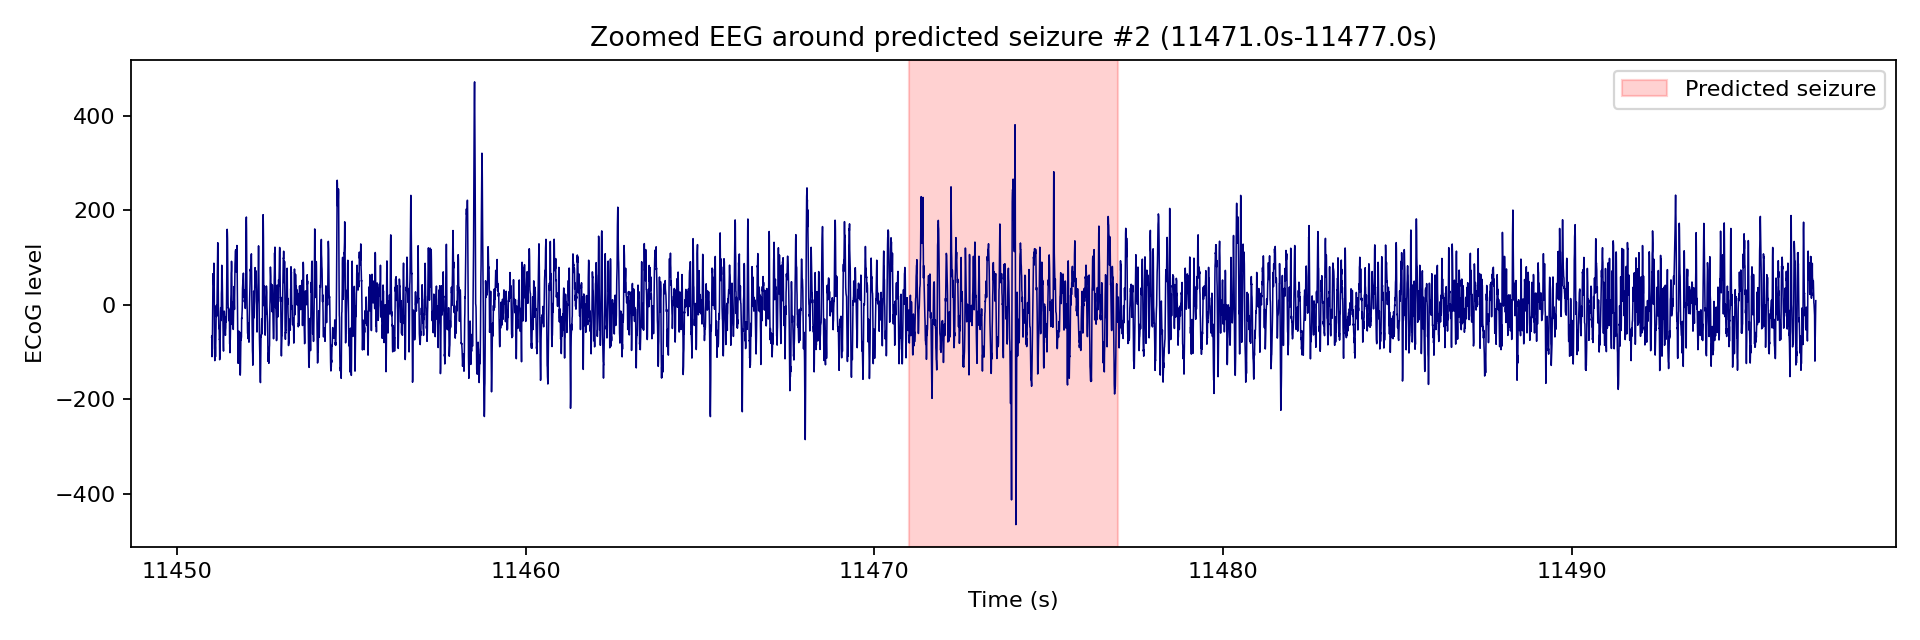
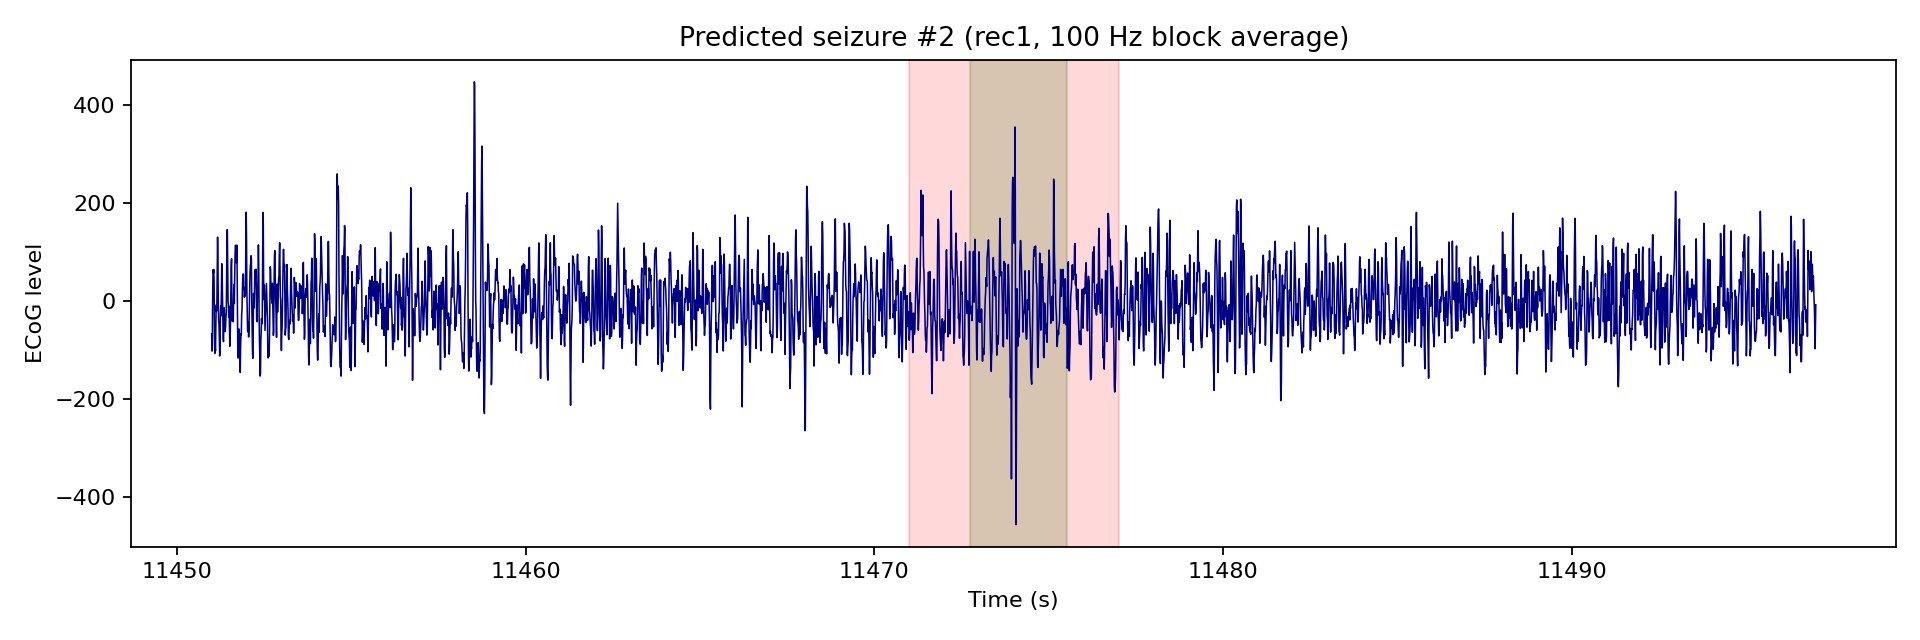
Rebuild website from updated postprocessed seizure dataset.
Regenerate events, 100 Hz traces, and zoom snapshots from current predictions so the live viewer reflects the latest model outputs.

diff --git a/src/export_pages_data.py b/src/export_pages_data.py
@@ -7,14 +7,18 @@ import json
 import shutil
 from pathlib import Path
 
+import matplotlib
+
+matplotlib.use("Agg")
+import matplotlib.pyplot as plt
 import numpy as np
 
 from .seizure_viewer_data import (
     DISPLAY_HZ,
-    FEATURED_SEGMENTS,
     PROJECT_ROOT,
     RECORDINGS,
     block_average_downsample,
+    get_featured_segments,
     get_predicted_spans,
     get_recording,
     get_true_spans,
@@ -41,11 +45,60 @@ def export_trace_binary(rec_id: str, target_hz: float = DISPLAY_HZ) -> tuple[dic
 
 
 def export_events_json(rec_id: str) -> dict:
+    featured = get_featured_segments(rec_id)
     return {
         "true_spans": get_true_spans(rec_id),
         "pred_spans": get_predicted_spans(rec_id),
-        "featured": FEATURED_SEGMENTS.get(rec_id, []),
+        "featured": featured,
     }
+
+
+def export_zoom_pngs(rec_id: str, static_dir: Path, limit: int = 5) -> None:
+    """Render zoom snapshot PNGs from updated postprocessed predictions."""
+    rec = get_recording(rec_id)
+    featured = get_featured_segments(rec_id, limit=limit)
+    true_spans = get_true_spans(rec_id)
+    pred_spans = get_predicted_spans(rec_id)
+
+    for seg in featured:
+        t0 = float(seg["start_s"])
+        t1 = float(seg["end_s"])
+        s0 = int(max(0, t0 * rec.fs_hz))
+        s1 = int(min(len(rec.ecog), t1 * rec.fs_hz))
+        raw = rec.ecog[s0:s1]
+        if raw.size == 0:
+            continue
+        ecog, hz, _ = block_average_downsample(raw, rec.fs_hz, DISPLAY_HZ)
+        t = (s0 / rec.fs_hz) + (np.arange(ecog.shape[0]) / hz)
+
+        plt.figure(figsize=(12, 4))
+        plt.plot(t, ecog, color="navy", linewidth=0.7)
+        for sp in true_spans:
+            if sp["end_s"] < t0 or sp["start_s"] > t1:
+                continue
+            plt.axvspan(
+                max(t0, sp["start_s"]),
+                min(t1, sp["end_s"]),
+                color="green",
+                alpha=0.18,
+            )
+        for sp in pred_spans:
+            if sp["end_s"] < t0 or sp["start_s"] > t1:
+                continue
+            plt.axvspan(
+                max(t0, sp["start_s"]),
+                min(t1, sp["end_s"]),
+                color="red",
+                alpha=0.15,
+            )
+        plt.xlabel("Time (s)")
+        plt.ylabel("ECoG level")
+        plt.title(f"{seg['label']} ({rec_id}, 100 Hz block average)")
+        plt.tight_layout()
+        out = static_dir / f"zoom_{seg['id']}.png"
+        plt.savefig(out, dpi=160)
+        plt.close()
+        print(f"  wrote {out.name}")
 
 
 def write_static_app_js(dest: Path) -> None:
@@ -306,10 +359,14 @@ def export_site(out_dir: Path, pages_base: str = "/Mice/") -> None:
             old_json.unlink()
 
     shutil.copy2(WEB_DIR / "styles.css", out_dir / "styles.css")
+    # Zoom PNGs from updated postprocessed dataset (rec1 featured gallery).
+    export_zoom_pngs("rec1", static_dir, limit=5)
     for i in range(1, 6):
-        src = WEB_DIR / "static" / f"zoom_{i}.png"
+        src = static_dir / f"zoom_{i}.png"
+        dst_web = WEB_DIR / "static" / f"zoom_{i}.png"
         if src.exists():
-            shutil.copy2(src, static_dir / f"zoom_{i}.png")
+            dst_web.parent.mkdir(parents=True, exist_ok=True)
+            shutil.copy2(src, dst_web)
 
     if not (out_dir / "index.html").exists():
         index = (WEB_DIR / "index.html").read_text(encoding="utf-8")

diff --git a/src/seizure_viewer_data.py b/src/seizure_viewer_data.py
@@ -44,15 +44,9 @@ RECORDINGS: dict[str, dict[str, str]] = {
     },
 }
 
-# Featured predicted-seizure zoom segments (seconds) from earlier analysis.
+# Legacy fallback if postprocessed predictions are missing.
 FEATURED_SEGMENTS: dict[str, list[dict[str, float | str]]] = {
-    "rec1": [
-        {"id": 1, "start_s": 11025.0, "end_s": 11071.0, "label": "Predicted seizure #1"},
-        {"id": 2, "start_s": 11451.0, "end_s": 11497.0, "label": "Predicted seizure #2"},
-        {"id": 3, "start_s": 11781.0, "end_s": 11827.0, "label": "Predicted seizure #3"},
-        {"id": 4, "start_s": 11823.0, "end_s": 11871.0, "label": "Predicted seizure #4"},
-        {"id": 5, "start_s": 12211.0, "end_s": 12256.0, "label": "Predicted seizure #5"},
-    ],
+    "rec1": [],
 }
 
 
@@ -166,6 +160,26 @@ def spans_in_window(spans: list[dict[str, float]], t0: float, t1: float) -> list
             }
         )
     return out
+
+
+def get_featured_segments(
+    rec_id: str, limit: int = 5, pad_s: float = 20.0
+) -> list[dict[str, float | str | int]]:
+    """Build featured zoom windows from current postprocessed predicted spans."""
+    spans = get_predicted_spans(rec_id)
+    featured: list[dict[str, float | str | int]] = []
+    for i, sp in enumerate(spans[:limit], start=1):
+        s = float(sp["start_s"]) - pad_s
+        e = float(sp["end_s"]) + pad_s
+        featured.append(
+            {
+                "id": i,
+                "start_s": max(0.0, s),
+                "end_s": e,
+                "label": f"Predicted seizure #{i}",
+            }
+        )
+    return featured
 
 
 def recording_meta(rec_id: str) -> dict[str, Any]:

diff --git a/src/seizure_viewer_server.py b/src/seizure_viewer_server.py
@@ -9,10 +9,10 @@ from pathlib import Path
 from flask import Flask, jsonify, request, send_from_directory
 
 from .seizure_viewer_data import (
-    FEATURED_SEGMENTS,
     PROJECT_ROOT,
     RECORDINGS,
     downsample_trace,
+    get_featured_segments,
     get_predicted_spans,
     get_recording,
     get_true_spans,
@@ -54,7 +54,7 @@ def create_app() -> Flask:
             {
                 "true_spans": get_true_spans(rec_id),
                 "pred_spans": get_predicted_spans(rec_id),
-                "featured": FEATURED_SEGMENTS.get(rec_id, []),
+                "featured": get_featured_segments(rec_id),
             }
         )
 
